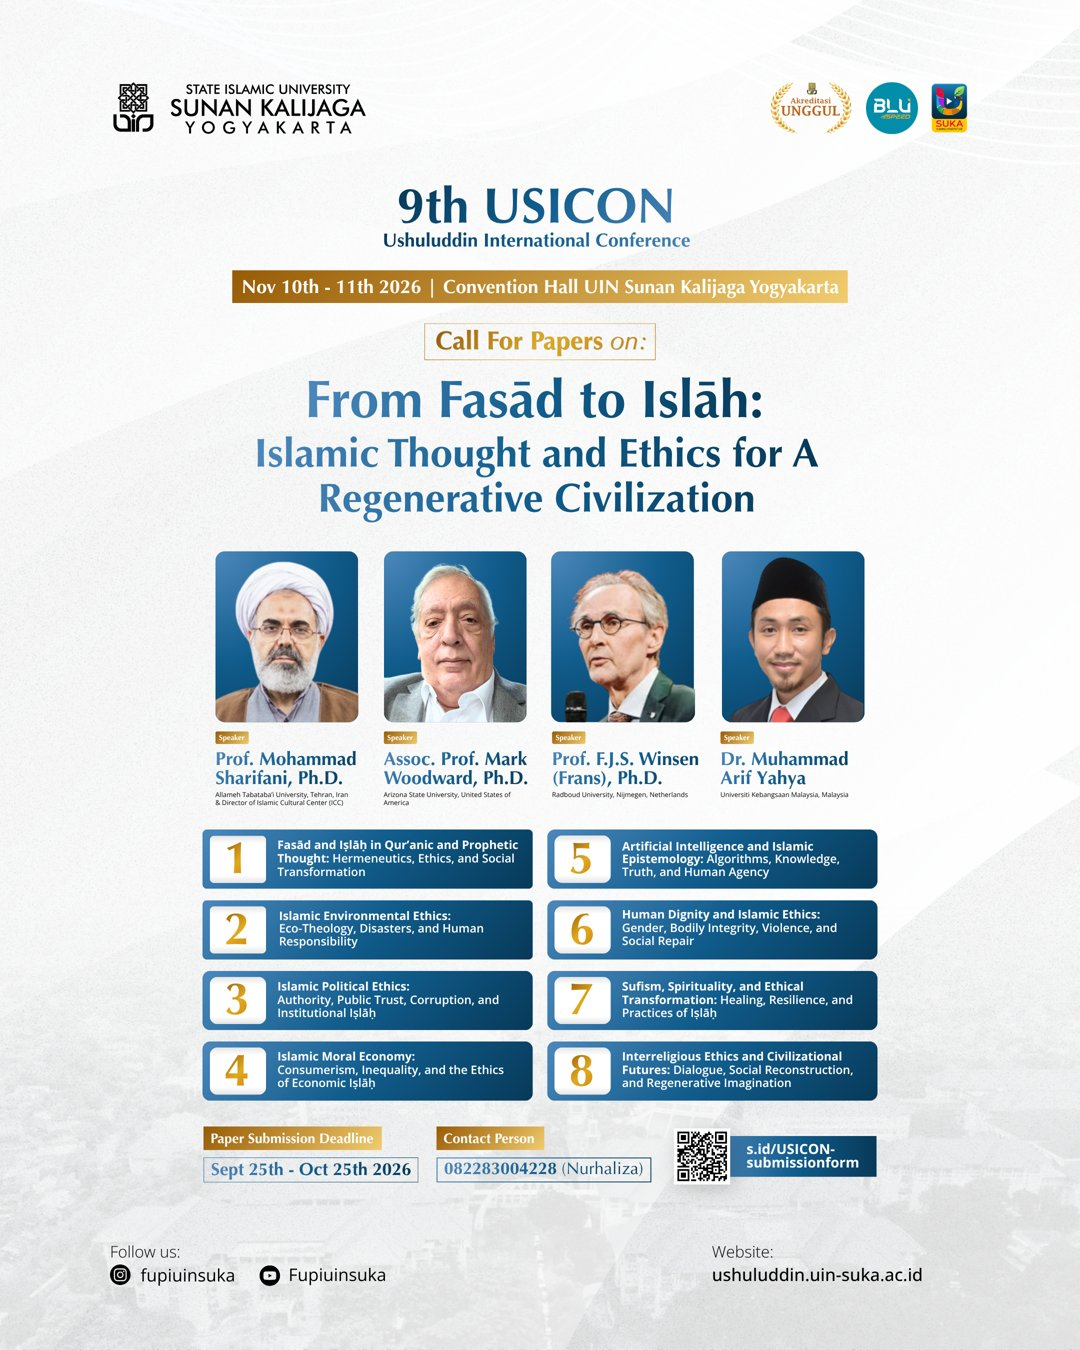
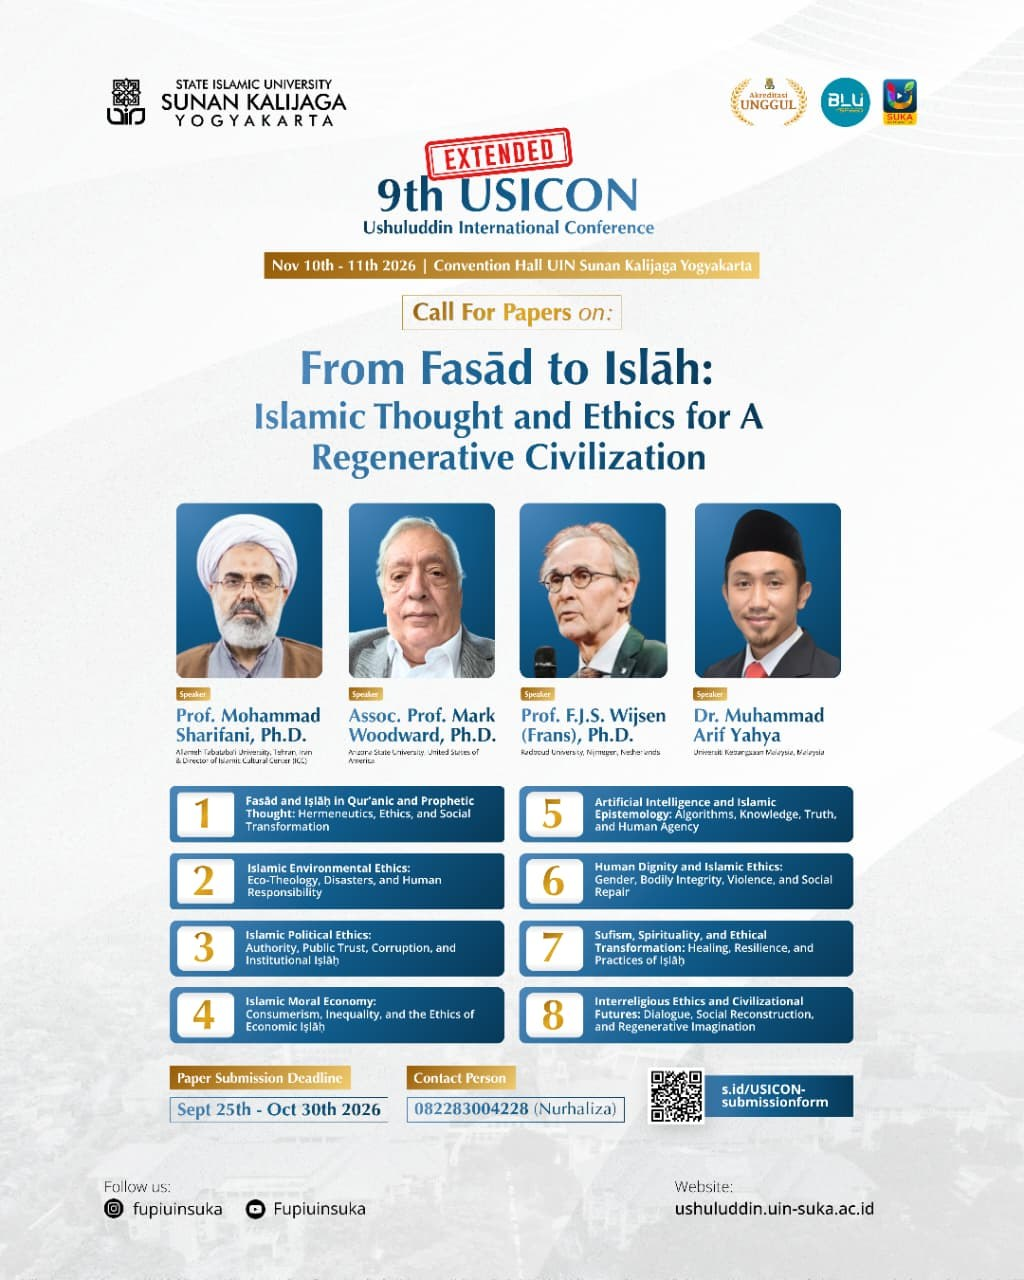
Add files via upload

diff --git a/assets/main.js b/assets/main.js
@@ -21,7 +21,7 @@ const LINKS = {
     try{navigator.clipboard.writeText(t).then(done,fallback)}catch(_){fallback()}
   });
 
-  const deadline=new Date('2026-10-25T23:59:59+07:00'), conf=new Date('2026-11-10T08:00:00+07:00'), confEnd=new Date('2026-11-11T23:59:59+07:00');
+  const deadline=new Date('2026-10-30T23:59:59+07:00'), conf=new Date('2026-11-10T08:00:00+07:00'), confEnd=new Date('2026-11-11T23:59:59+07:00');
   const lab=document.getElementById('cdLabel'), el=id=>document.getElementById(id);
   const pad=n=>String(n).padStart(2,'0');
   function tick(){

diff --git a/assets/style.css b/assets/style.css
@@ -281,3 +281,4 @@ h1.h2{font-size:clamp(30px,4.4vw,44px);color:var(--navy);line-height:1.12}
 .speaker p{font-size:13.5px}
 .tag{margin-top:10px}
 @media (max-width:900px){.speaker img{height:auto;aspect-ratio:228/274}}
+.step .ext{margin:6px 0 0;display:inline-block;font-size:12.5px;font-weight:600;color:var(--gold-1);background:#fbf3df;border-radius:4px;padding:2px 8px}
